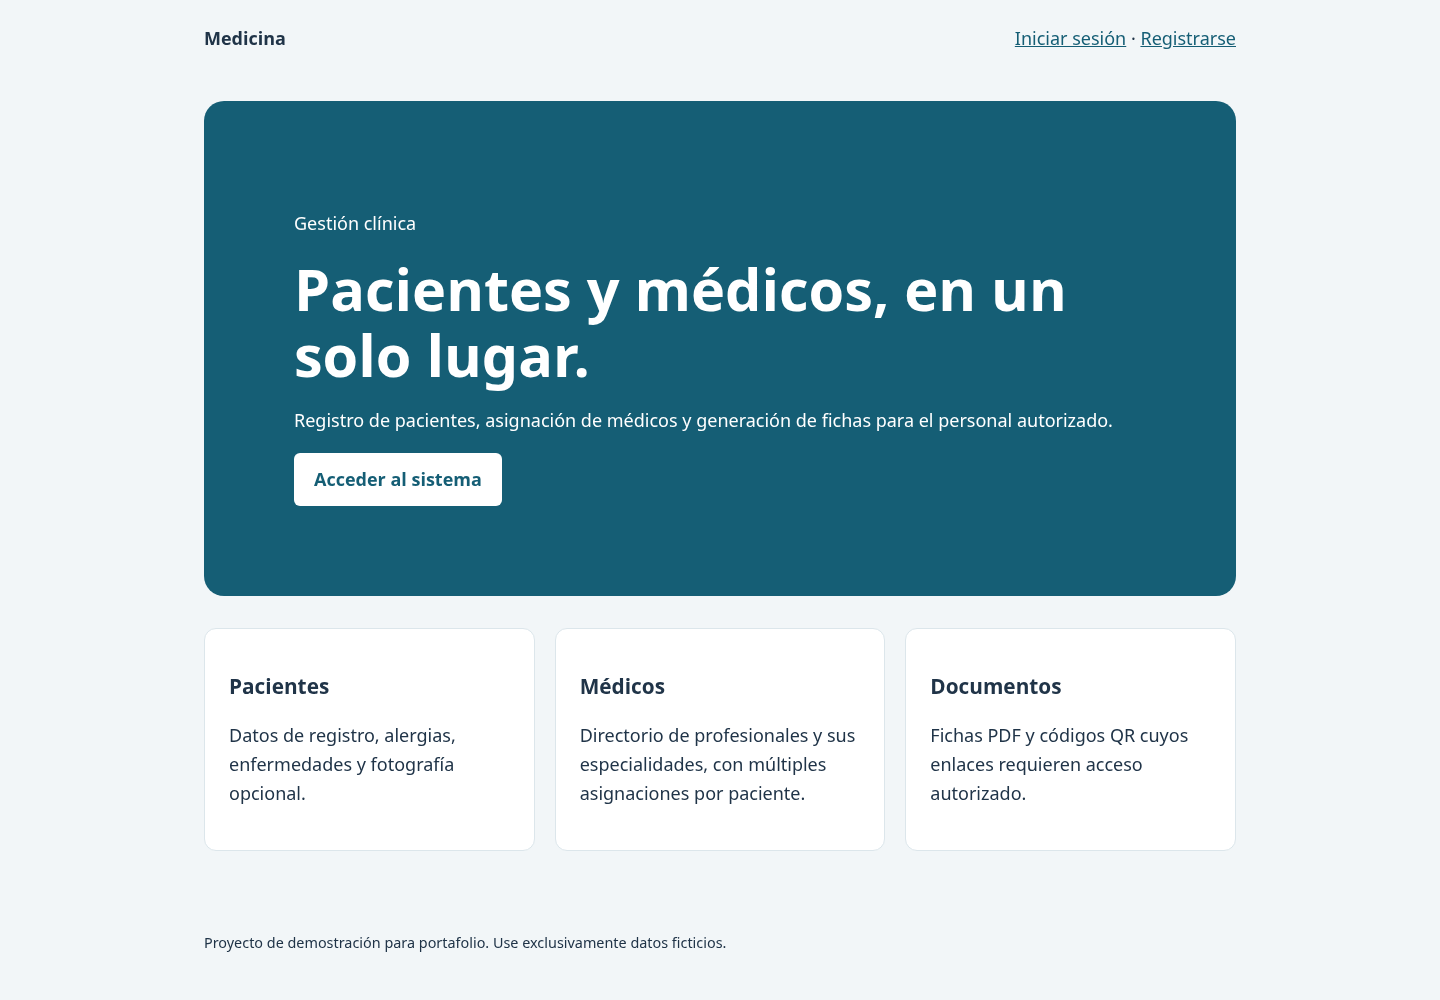
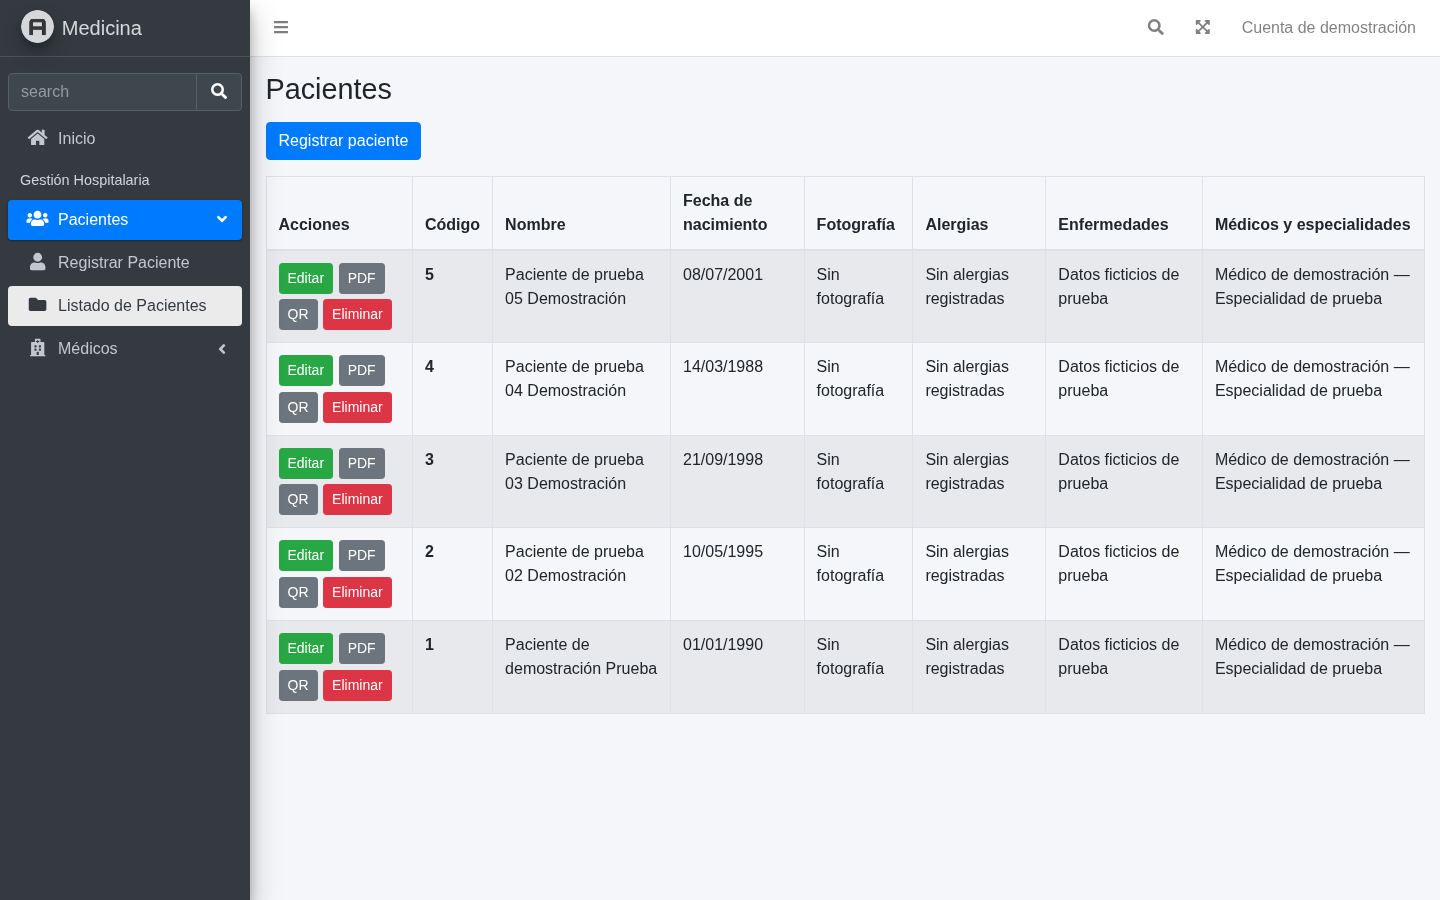
Update Medicina screenshot

diff --git a/src/pages/Home.jsx b/src/pages/Home.jsx
@@ -24,7 +24,7 @@ export default function Home() {
             <article
               key={project.id}
               aria-labelledby={`${project.id}-heading`}
-              className="grid gap-4 sm:grid-cols-[9rem_minmax(0,1fr)]"
+              className="grid gap-4 sm:grid-cols-[9rem_minmax(0,1fr)] lg:grid-cols-[11rem_minmax(0,1fr)]"
             >
               <img
                 src={project.image.src}

diff --git a/src/data/projects.js b/src/data/projects.js
@@ -25,9 +25,9 @@ const projects = [
     liveUrl: null,
     image: {
       src: '/images/projects/medicina.png',
-      alt: 'Medicina homepage with patient, doctor and document modules.',
+      alt: 'Medicina patient management panel with fictitious demo records and doctor assignments.',
       width: 1440,
-      height: 1000,
+      height: 900,
     },
   },
 ]

diff --git a/README.md b/README.md
@@ -42,7 +42,7 @@ DM Sans and Instrument Serif are served locally through Fontsource. Both use the
 
 The NovaWeb preview is a screenshot of [my published landing page](https://isaiasdevco.github.io/landing-page-project/), a project for a fictional digital studio. Its source is available in [landing-page-project](https://github.com/isaiasdevco/landing-page-project).
 
-Medicina is an academic Laravel application for managing patients and doctors. Its screenshot was captured from a local installation using a separate database and fictitious demo data. It has no public demo linked.
+Medicina is an academic Laravel application for managing patients and doctors. Its patient management screenshot was captured from a local installation using a separate database and fictitious demo data. It has no public demo linked.
 
 ## Validation
 
